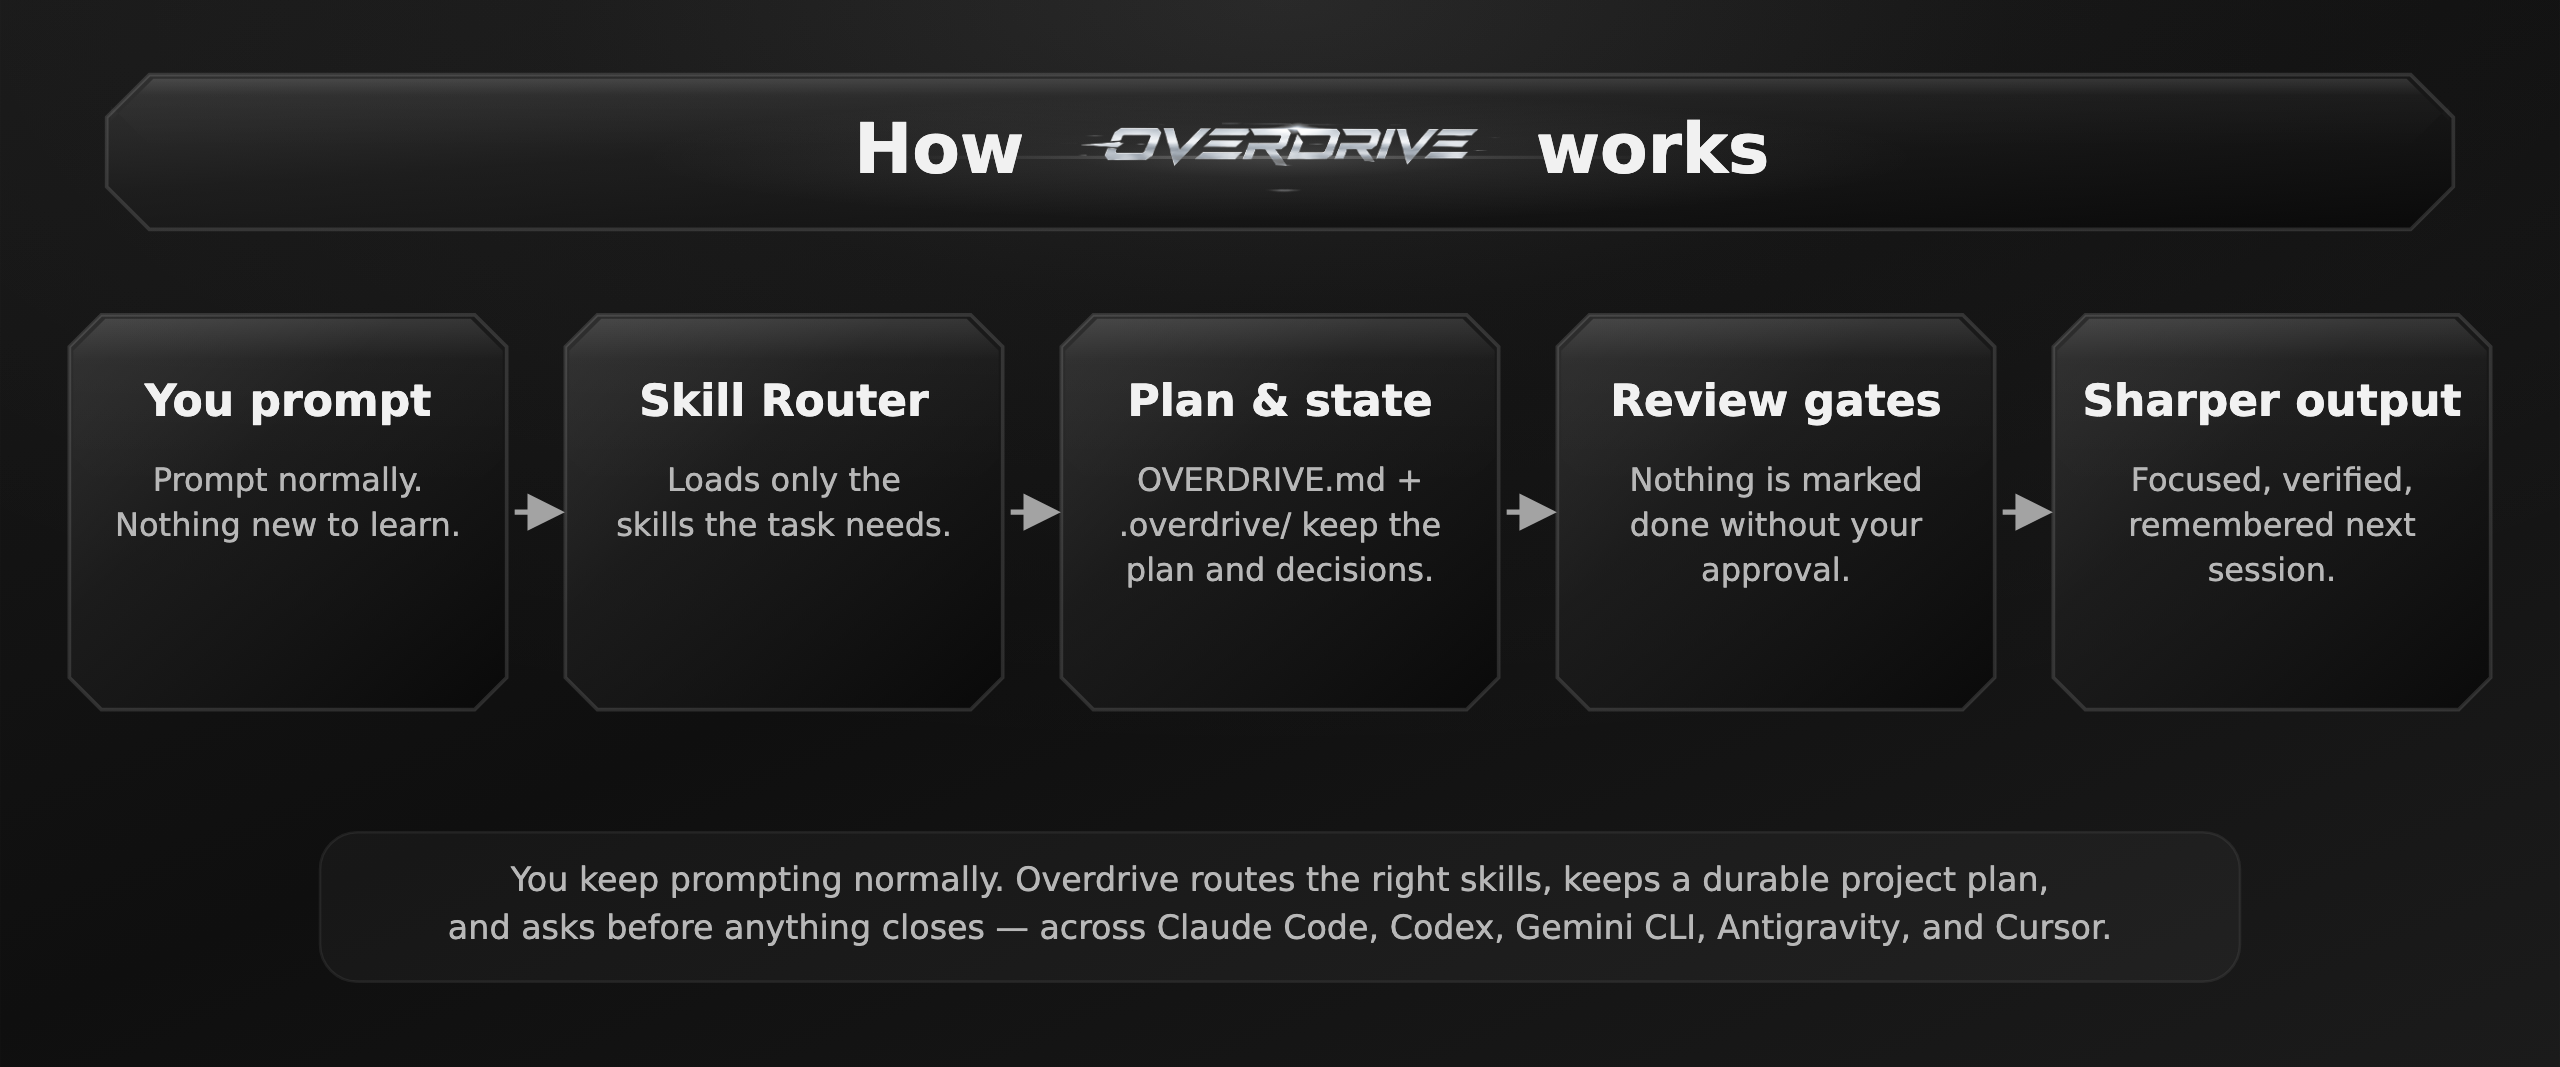
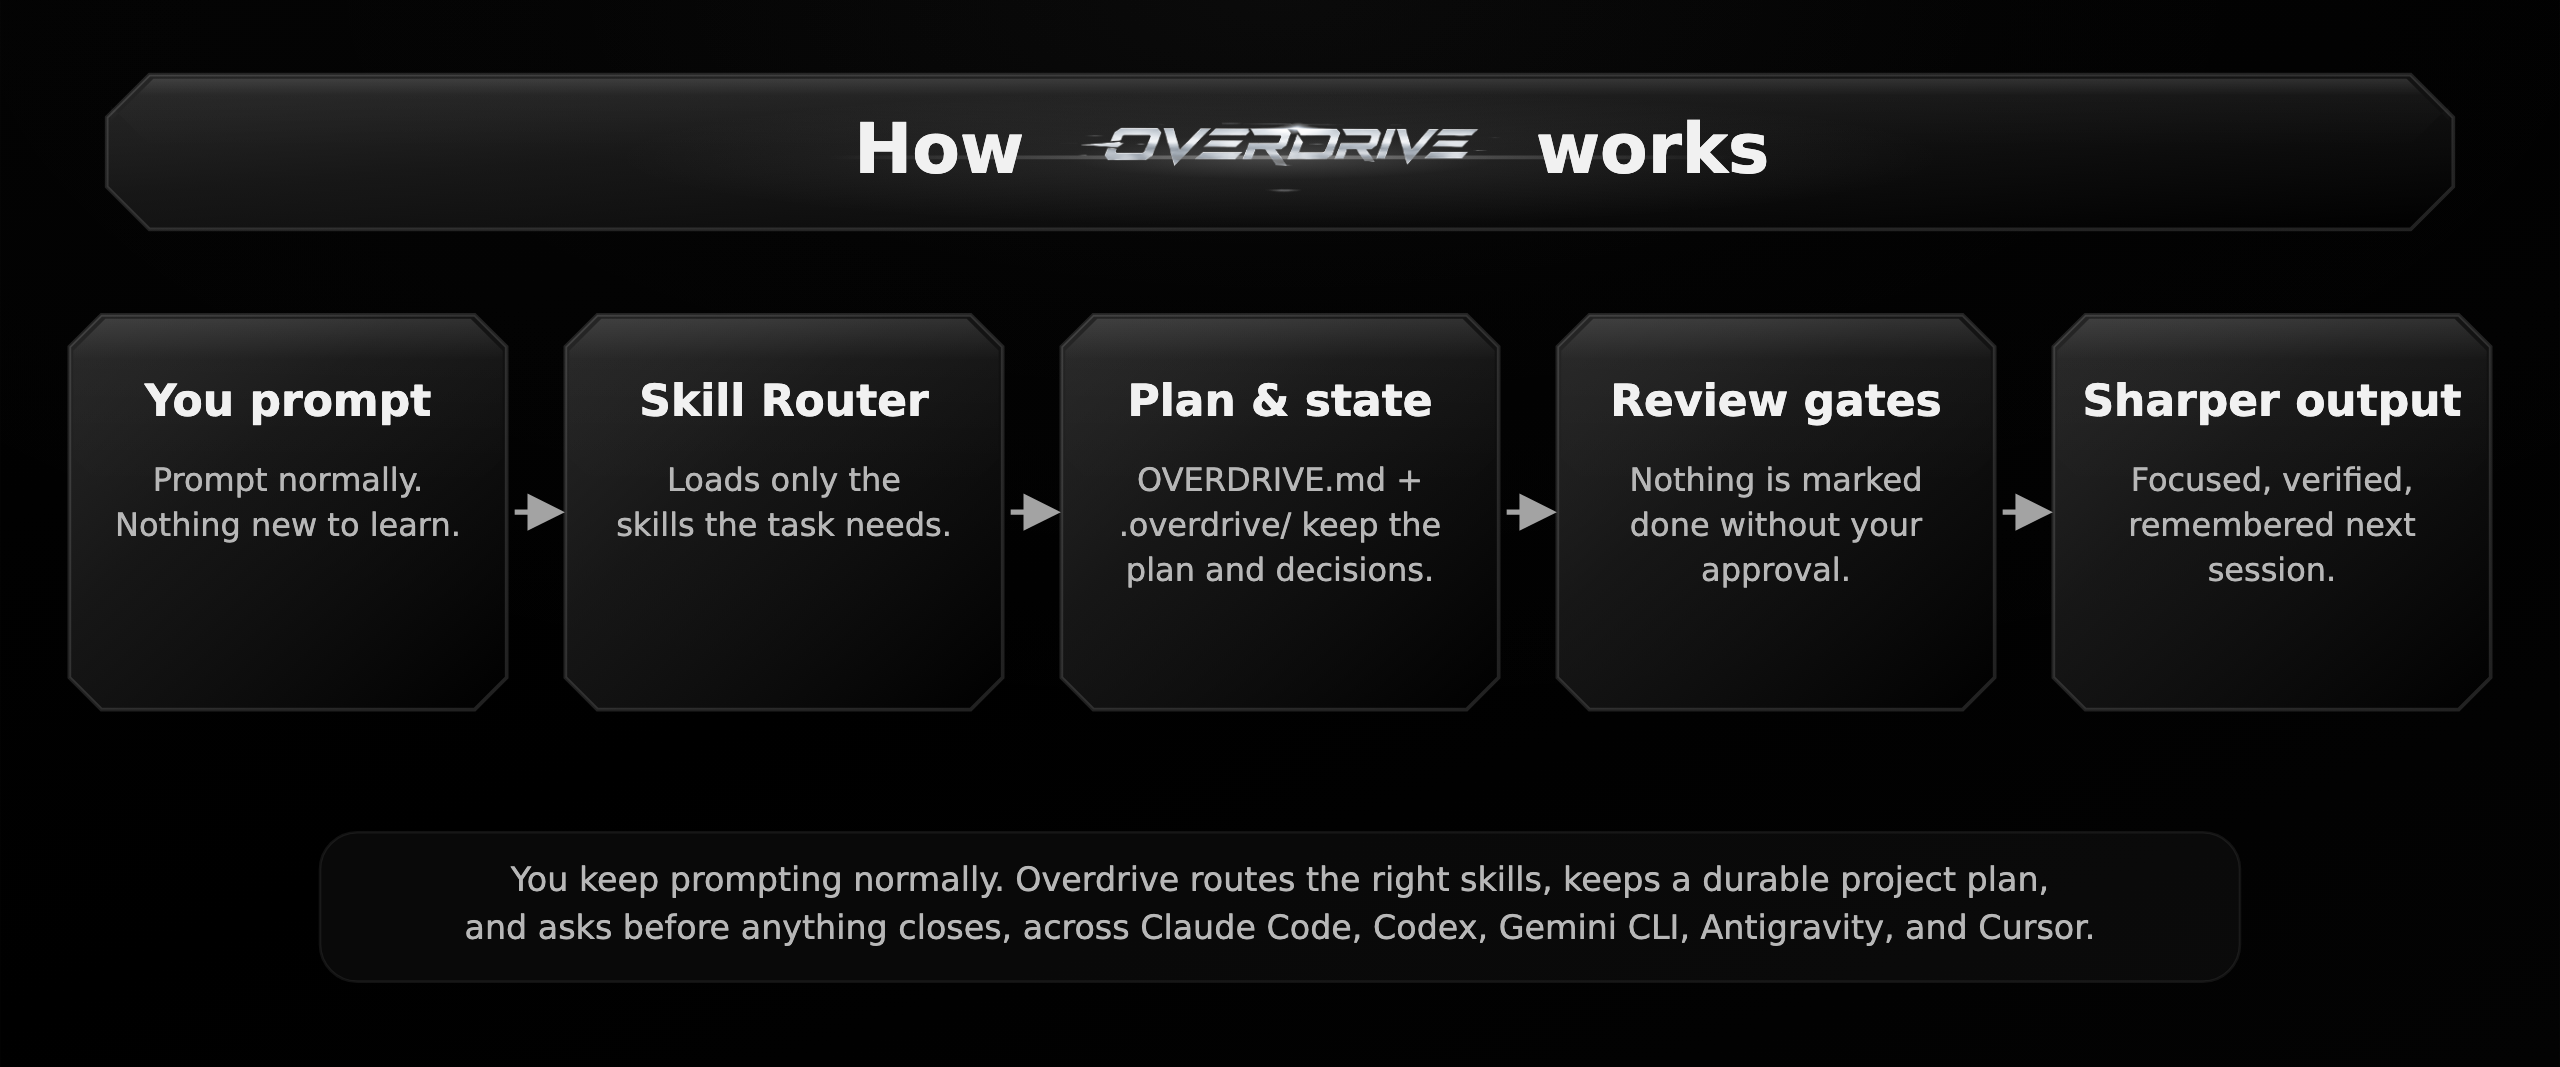
Brand and docs polish: true-black diagrams, PSMS wording, provenance
- Diagrams now match the logo exactly: pure black backgrounds
  (corner pixels rgb 1-3, same as the logo asset), reduced sheen
  overlay, brighter lens-flare core, and no em dashes in diagram text.
- New README tagline and intro bullets follow the pipeline: global
  instructions (Karpathy-based) -> curated skills -> skill router ->
  project state management system. 'Operating layer' wording removed.
- ovd-workflow is consistently named the project state management
  system across README and docs; ovd-plan bullet no longer says v2.
- Added the 'Why leaf?' explanation (flexible plan shapes, leaf = the
  smallest implementable unit) to README and ovd-plan-v2.md.
- Added skills provenance: 22 pinned upstream open-source repos plus
  the 19 skills built specifically for Overdrive, verified against
  manifest.json.
- Added a Documentation section and a docs/README.md index grouped by
  audience; restored uninstall commands; all local links verified.
- Removed em dashes from README/docs prose (verbatim installed-artifact
  blocks and quoted CLI output kept exact).
- Intro quote: Overdrive builds and audits its own upgrades, friend and
  business partner credit for Eugen Bulboaca, new X handle
  @user, GitHub and LinkedIn links; consistency assertion
  updated to the new handle.
- Honest assessment re-checked and re-affirmed; release notes updated
  with credits and PSMS wording.

Changed region(s): [[0.1562, 0.0, 0.6875, 0.0928], [0.1562, 0.8351, 0.8125, 0.8969], [0.0625, 0.0, 0.0938, 0.0309]]

diff --git a/scripts/check-consistency.js b/scripts/check-consistency.js
@@ -250,7 +250,7 @@ check('README links to router evaluation docs', /docs\/evaluation\.md/.test(read
 check('README links to v0.6 scorecard docs', /docs\/scorecard-v0\.6\.md/.test(readme));
 check('README explains ovd-workflow', /ovd-workflow/i.test(readme) && /\.overdrive/.test(readme));
 check('README positions Overdrive as a complete system', /complete,\s*plug-and-play system/i.test(readme) && /not just another skill pack/i.test(readme));
-check('README includes Stefan origin/contact note', /own daily AI coding-agent setup/i.test(readme) && /@editor_stefan/.test(readme) && /buymeacoffee/.test(readme));
+check('README includes Stefan origin/contact note', /own daily AI coding-agent setup/i.test(readme) && /@StefanDumitruX/.test(readme) && /buymeacoffee/.test(readme));
 check('README clarifies managed vs native/plugin layers', /managed skills/i.test(readme) && /native skills, third-party plugin skills, or MCP servers/i.test(readme));
 check('README documents Cursor reserved folder boundary', /~\/\.cursor\/skills-cursor/.test(readme) && /does not touch Cursor's reserved/i.test(readme));
 check('README states no telemetry', /no telemetry/i.test(readme));

diff --git a/README.md b/README.md
@@ -2,7 +2,7 @@
 
 ![Overdrive logo](assets/overdrive%20logo.png)
 
-**The operating layer for AI coding agents — 137 specialist skills, a router that picks them, and a project plan that survives sessions.**
+**Karpathy-based global instructions, 137 curated skills, a router that picks the right ones, and a project state management system that survives sessions. One install for your AI coding agents.**
 
 [![npm](https://img.shields.io/npm/v/overdrive-cli?color=2b3a44&label=npm)](https://www.npmjs.com/package/overdrive-cli)
 [![license](https://img.shields.io/badge/license-Apache--2.0-2b3a44)](LICENSE)
@@ -13,27 +13,27 @@
 
 </div>
 
-> I built Overdrive over the years as my own daily AI coding-agent setup and I'm releasing it completely for free for the community to use. I've built many different websites, web-apps and mobile apps with it across Claude Code, Codex and Antigravity. If you build something with it, tag me on X [@editor_stefan](https://x.com/editor_stefan), connect on [LinkedIn](https://www.linkedin.com/in/radustefandumitru/), send feedback on Reddit at [u/StefanDumitru](https://www.reddit.com/user/StefanDumitru/) or open an issue/PR.
+> I built Overdrive over the years as my own daily AI coding-agent setup and I'm releasing it completely for free for the community to use. I've built many different websites, web-apps and mobile apps with it across Claude Code, Codex and Antigravity, including Overdrive itself: the system plans, builds, and audits its own upgrades, and it has evolved that way from the start. If you build something with it, tag me on X [@StefanDumitruX](https://x.com/StefanDumitruX), connect on [LinkedIn](https://www.linkedin.com/in/radustefandumitru/), find me on [GitHub](https://github.com/radustefandumitru), send feedback on Reddit at [u/StefanDumitru](https://www.reddit.com/user/StefanDumitru/) or open an issue/PR.
 >
-> Special thanks to my business partner [Eugen Bulboaca](https://www.linkedin.com/in/eugenbulboaca/) ([GitHub](https://github.com/BulboacaEugen)), who has massively helped shape Overdrive — including designing the `ovd-workflow` project-context layer.
+> Special thanks to my friend and business partner [Eugen Bulboaca](https://www.linkedin.com/in/eugenbulboaca/) ([GitHub](https://github.com/BulboacaEugen)), who has massively helped shape Overdrive, including designing `ovd-workflow`, the project state management system.
 >
 > I'm just a recent uni grad that likes coding in his spare time. If you want to buy me a coffee, you can do so [here](https://buymeacoffee.com/stefandumitru) :) - Anything is much appreciated!
 >
 > - Stef
 
-**Overdrive** is a complete, plug-and-play system for upgrading AI coding agents with specialist skills, smarter routing, local project memory, and a v2 project-management layer.
+**Overdrive** is a complete, plug-and-play system for upgrading AI coding agents. It layers global instructions built on Karpathy's system prompt, a curated skill catalog, a skill router, and a project state management system on top of the agents you already use.
 
 It works across Claude Code, Codex, Gemini CLI, Antigravity, Cursor, and shared `.agents` roots. The current manifest contains 137 unique skills for web/app development, frontend polish, animation, SEO, product work, research, launch prep, security review, browser validation, prompt improvement, codebase intelligence, and project workflow state.
 
 ![Overdrive flow diagram](assets/[email redacted])
 
-Overdrive is not just another skill pack. It is the operating layer around the skills:
+Overdrive is not just another skill pack. The pieces work as one system:
 
+- **Global instructions**, based on Andrej Karpathy's Claude system prompt and adapted to fit Overdrive, keep agents cautious, objective, docs-aware, and verification-oriented.
 - **Skills** teach agents how to do specific kinds of work.
 - **`skill-router`** chooses the smallest useful skill set for the current request.
-- **`ovd-workflow`** keeps local project memory in `.overdrive/`.
-- **v2 `ovd-plan`** adds a human-readable project plan in `OVERDRIVE.md` so work survives across sessions.
-- **Global instructions** — based on Andrej Karpathy's Claude system prompt, adapted to fit Overdrive — keep agents cautious, objective, docs-aware, and verification-oriented.
+- **`ovd-workflow`** runs the project state management system: project context in `.overdrive/`, from requirements and preferences to decisions and codebase maps.
+- **`ovd-plan`** adds a human-readable project plan in `OVERDRIVE.md` so work survives across sessions.
 - **Installer safety** uses pinned sources, dry-runs, non-destructive conflict handling, and managed markers.
 
 The practical goal is better agent output with less repeated prompting, without loading a giant context dump into every chat.
@@ -120,14 +120,14 @@ The mental model is simple:
 
 ```text
 OVERDRIVE.md        human-readable project tree
-.overdrive/         local project memory, preferences, requirements, decisions, sessions, handoffs
+.overdrive/         project state: preferences, requirements, decisions, sessions, handoffs
 skills/             specialist playbooks
 skill-router        chooses skill guidance at planning or execution time
 ```
 
 A leaf in `OVERDRIVE.md` is meant to be an executable contract: scope, skills, success criteria, dependencies, and verification. Leaves do not auto-complete. They move to `awaiting-review`, then close only after user approval or an equivalent clear signal.
 
-A real plan tree looks like this — plain Markdown you can read, diff, and commit:
+A real plan tree is plain Markdown you can read, diff, and commit:
 
 ```markdown
 ## II. Dashboard [in-progress]
@@ -150,9 +150,13 @@ verify:
 ```
 ```
 
-When you approve a leaf, closure walks **up** the tree: "That closes II.2 — verify, close, or hold?" Each level asks. Nothing is marked done behind your back, at any level. The skill-router runs once per leaf at planning time, so execution starts warm instead of re-routing cold.
+When you approve a leaf, closure walks **up** the tree: "That closes II.2. Verify, close, or hold?" Each level asks. Nothing is marked done behind your back, at any level. The skill-router runs once per leaf at planning time, so execution starts warm instead of re-routing cold.
 
-If you have a v1 `.overdrive/` layout, `/ovd-workflow` detects it and offers a one-time, opt-in migration that archives your originals first. The v2 design is documented in [docs/ovd-plan-v2.md](docs/ovd-plan-v2.md). The `ovd-workflow` project-context layer that anchors it was designed by [Eugen Bulboaca](https://www.linkedin.com/in/eugenbulboaca/) ([GitHub](https://github.com/BulboacaEugen)).
+### Why "leaf"?
+
+Overdrive says "leaf" instead of task, step, phase, or action on purpose. Those words imply a fixed planning model. In Overdrive the plan takes whatever shape the project needs: features, milestones, systems, pages, user flows, bugs, experiments. A leaf is simply the smallest implementable unit at the edge of that tree. "Implement auth" might contain leaves like "forgot password screen", "password storage", and "email confirmation", and the parent above them can be a feature, a phase, a milestone, or anything else. This keeps `ovd-plan` flexible for humans and agents instead of forcing every project into one rigid workflow.
+
+If you have a v1 `.overdrive/` layout, `/ovd-workflow` detects it and offers a one-time, opt-in migration that archives your originals first. The v2 design is documented in [docs/ovd-plan-v2.md](docs/ovd-plan-v2.md). `ovd-workflow`, the project state management system that anchors it, was designed by [Eugen Bulboaca](https://www.linkedin.com/in/eugenbulboaca/) ([GitHub](https://github.com/BulboacaEugen)).
 
 ## Common Workflows
 
@@ -202,7 +206,7 @@ Overdrive has four main runtime layers:
 |---|---|
 | Managed skills | Installs curated `SKILL.md` folders into selected agent roots. Each managed skill has an `.overdrive.json` marker. |
 | Skill router | Picks relevant skills in stable order. Complex work can use more than three skills when justified, preferably in phases. |
-| ovd-workflow + ovd-plan | Stores `.overdrive/` project memory and `OVERDRIVE.md` project structure. Includes knowledge vault, route traces, preferences, requirements, and handoffs. |
+| ovd-workflow + ovd-plan | The project state management system: `.overdrive/` project context plus the `OVERDRIVE.md` plan. Includes knowledge vault, route traces, preferences, requirements, and handoffs. |
 | Global guide | Keeps agents cautious, objective, surgical, docs-aware, context-budget-aware, and verification-oriented. Based on Andrej Karpathy's Claude system prompt, adapted to fit Overdrive. |
 
 ![Overdrive system diagram](assets/[email redacted])
@@ -227,6 +231,18 @@ Skills answer **how should the agent do this kind of task?**
 | Media and video | `claude-video`, `media-download`, Remotion guidance |
 
 The skill-readiness breakdown is in [docs/skill-readiness.md](docs/skill-readiness.md). The router evaluation protocol is in [docs/evaluation.md](docs/evaluation.md), with the v0.6 scorecard template in [docs/scorecard-v0.6.md](docs/scorecard-v0.6.md). Route-frequency analysis uses `npm run analyze:routes` and writes [docs/catalog-health.md](docs/catalog-health.md).
+
+### Where The Skills Come From
+
+Every third-party skill is imported directly from its official open-source repository and pinned to a verified commit. Upstream authors keep their licenses and credit: the full source map lives in [docs/VERIFIED_SOURCES.md](docs/VERIFIED_SOURCES.md) and [THIRD_PARTY_NOTICES.md](THIRD_PARTY_NOTICES.md), with per-skill provenance in [docs/SKILLS_SUMMARY.md](docs/SKILLS_SUMMARY.md).
+
+The current manifest pulls from 22 pinned upstream repositories. On top of those, 19 skills were built specifically for Overdrive:
+
+- Core system: `skill-router`, `clarify-and-plan`, `planning-first`, `what-should-i-consider`
+- Workflow, quality, and safety: `security-review`, `pre-launch-checklist`, `convert-to-markdown`, `reddit-research`
+- Frontend, design, and motion: `fluid-animations`, `emil-animation-polish`, `design-extract`, `liquid-glass-web`, `pretext`
+- Media: `media-download`
+- Premium website stack: `jack-premium-site-system`, `jack-website-intelligence`, `jack-scroll-asset-prompts`, `jack-scroll-3d-sites`, `jack-seo-launch-audit`
 
 ## Install Modes
 
@@ -336,7 +352,7 @@ overdrive/
 
 ## Advanced: Exact Installed Instructions
 
-Overdrive installs a managed global operating guide and the `skill-router` skill. The guide is based on Andrej Karpathy's Claude system prompt, adapted to fit Overdrive — it is the behavioral core of the system, the layer every request passes through. Both are included here so users can inspect the actual behavior before installing.
+Overdrive installs a managed global operating guide and the `skill-router` skill. The guide is based on Andrej Karpathy's Claude system prompt, adapted to fit Overdrive, and it is the behavioral core of the system: the layer every request passes through. Both are included here so users can inspect the actual behavior before installing.
 
 <details>
 <summary>Installed global operating guide</summary>
@@ -622,13 +638,25 @@ When `confidence: low` or the annotation is missing, perform full routing per th
 
 </details>
 
+## Documentation
+
+The [docs/](docs/) folder holds the full documentation, indexed in [docs/README.md](docs/README.md). Good starting points:
+
+- [docs/SKILLS_SUMMARY.md](docs/SKILLS_SUMMARY.md): every skill, where it comes from, and who made it.
+- [docs/VERIFIED_SOURCES.md](docs/VERIFIED_SOURCES.md): the pinned upstream sources used by default installs.
+- [THIRD_PARTY_NOTICES.md](THIRD_PARTY_NOTICES.md): licenses and attribution for imported work.
+- [docs/ovd-plan-v2.md](docs/ovd-plan-v2.md): the v2 design, from the four commands to closure semantics.
+- [docs/ovd-workflow.md](docs/ovd-workflow.md): the project state management system on disk.
+- [docs/evaluation.md](docs/evaluation.md): what the router benchmark measures, and what it does not.
+- [docs/PUBLISHING.md](docs/PUBLISHING.md): how releases are verified and published.
+
 ## Credits
 
 Overdrive is built from original local skills, safety transforms, installer/runtime code, and a curated set of public third-party skills. See [THIRD_PARTY_NOTICES.md](THIRD_PARTY_NOTICES.md) and [docs/VERIFIED_SOURCES.md](docs/VERIFIED_SOURCES.md) for the full source map.
 
 Key credits include:
 
-- `ovd-workflow` project-context design: [Eugen Bulboaca](https://www.linkedin.com/in/eugenbulboaca/) ([GitHub](https://github.com/BulboacaEugen)).
+- `ovd-workflow` project state management system design: [Eugen Bulboaca](https://www.linkedin.com/in/eugenbulboaca/) ([GitHub](https://github.com/BulboacaEugen)).
 - Global operating guide: based on Andrej Karpathy's Claude system prompt, via the Karpathy-inspired coding-agent guidance in [multica-ai/andrej-karpathy-skills](https://github.com/multica-ai/andrej-karpathy-skills), adapted to fit Overdrive.
 - Prompt-line principles: Boris Cherny / Anthropic, shared by [@AnatoliKopadze](https://x.com/AnatoliKopadze/status/2054568935274549597) and [this follow-up](https://x.com/AnatoliKopadze/status/2056362875195686927).
 - Product-design reasoning: [Jamie Mill's Layers skills](https://github.com/jamiemill/layers-skills) and [layers.jamiemill.com](https://layers.jamiemill.com).
@@ -651,15 +679,15 @@ Key credits include:
 
 ## Claude Fable 5 Honest Assessment
 
-I audited this codebase before release — installer, state engine, tests, packaging, licensing — reran its full test suite, reproduced its safety claims against real scenarios, and fixed the bugs I found. So this is an informed opinion, but it is also a reviewed party's opinion: I contributed fixes to this release, and you should weigh that the way you'd weigh any code review written by someone who has skin in the codebase.
+I audited this codebase before release: installer, state engine, tests, packaging, licensing. I reran its full test suite, reproduced its safety claims against real scenarios, and fixed the bugs I found. So this is an informed opinion, but it is also a reviewed party's opinion: I contributed fixes to this release, and you should weigh that the way you'd weigh any code review written by someone who has skin in the codebase.
 
-What genuinely impressed me: the safety engineering is real, not marketing. Unmanaged files are actually preserved (I tested the edge cases, including hostile ones). Uninstall actually removes only what Overdrive added. Sources are actually pinned to commit SHAs with attribution that names what is *not* redistributed — a level of licensing care most hobby projects skip. The consistency checker holds the docs to the code with over a thousand assertions, which is why this README can make specific claims without drifting. And v2's `awaiting-review` gate addresses the single most common failure of autonomous agents — declaring victory on work you haven't accepted — with a mechanism, not a vibe.
+What genuinely impressed me: the safety engineering is real, not marketing. Unmanaged files are actually preserved (I tested the edge cases, including hostile ones). Uninstall actually removes only what Overdrive added. Sources are actually pinned to commit SHAs, with attribution that names what is *not* redistributed, which is a level of licensing care most hobby projects skip. The consistency checker holds the docs to the code with over a thousand assertions, which is why this README can make specific claims without drifting. And v2's `awaiting-review` gate addresses the single most common failure of autonomous agents, declaring victory on work you haven't accepted, with a mechanism instead of a vibe.
 
-What I'd be skeptical of, in your position: there is no measured evidence that Overdrive improves final output quality. The router benchmark measures routing quality — whether the right skills load — not whether shipped products get better; nobody has run that experiment yet. The v2 planning loop has a real ceremony cost: on one-shot tasks it is overhead, and it only pays for itself on work that spans sessions. 137 skills is a curation, which means opinions — some will not be your opinions. And a system this instruction-heavy depends on the agent actually following instructions; stronger models follow them better, so your results will vary with your model. One more data point in that spirit: on release day, CI on a bare runner caught two environment assumptions the audited test suite had missed on developer machines — both were test/CI infrastructure rather than product code, both were fixed forward in public history, and I'd rather tell you that than pretend the audit made this repository infallible.
+What I'd be skeptical of, in your position: there is no measured evidence that Overdrive improves final output quality. The router benchmark measures routing quality, meaning whether the right skills load, not whether shipped products get better; nobody has run that experiment yet. The v2 planning loop has a real ceremony cost: on one-shot tasks it is overhead, and it only pays for itself on work that spans sessions. 137 skills is a curation, which means opinions, and some will not be your opinions. A system this instruction-heavy also depends on the agent actually following instructions; stronger models follow them better, so your results will vary with your model. One more data point in that spirit: on release day, CI on a bare runner caught two environment assumptions the audited test suite had missed on developer machines. Both were test/CI infrastructure rather than product code, both were fixed forward in public history, and I'd rather tell you that than pretend the audit made this repository infallible.
 
-My advice: install globally, ignore the plan layer at first, and just let the router work for a week — that alone is most of the value for most people. Reach for `/ovd-plan` the first time a project outgrows one session. If it doesn't earn its ceremony on your real work, drop that layer and keep the skills; the design decision I most respect here is that the layers are separable.
+My advice: install globally, ignore the plan layer at first, and just let the router work for a week. That alone is most of the value for most people. Reach for `/ovd-plan` the first time a project outgrows one session. If it doesn't earn its ceremony on your real work, drop that layer and keep the skills; the design decision I most respect here is that the layers are separable.
 
-— Claude Fable 5 (Anthropic). Written after a full pre-release audit of this repository, then re-checked and re-affirmed at higher reasoning effort after executing the v2.0.0 release end to end.
+- Claude Fable 5 (Anthropic). Written after a full pre-release audit of this repository, then re-checked and re-affirmed at higher reasoning effort after executing the v2.0.0 release end to end.
 
 ## Contributing
 

diff --git a/docs/ovd-plan-v2.md b/docs/ovd-plan-v2.md
@@ -10,8 +10,8 @@ Overdrive v1 is the **execution layer** for AI coding agents:
 
 - 137 specialist skills covering frontend design, animation, security, SEO, research, launch, prompt engineering, codebase intelligence, and more.
 - `skill-router` chooses the right skills per request without loading the whole catalog.
-- Global operating guide — based on Andrej Karpathy's Claude system prompt, adapted to fit Overdrive — instructs agents to plan, verify, watch context budget, use current docs.
-- `ovd-workflow` persists lightweight project state (`.overdrive/project.md`, `state.md`, `decisions.md`, etc.) so agents remember active work, decisions, and constraints.
+- Global operating guide, based on Andrej Karpathy's Claude system prompt and adapted to fit Overdrive, instructs agents to plan, verify, watch context budget, use current docs.
+- `ovd-workflow`, the project state management system, persists project state (`.overdrive/project.md`, `state.md`, `decisions.md`, etc.) so agents remember active work, decisions, and constraints.
 - Installer keeps sources pinned and updates safe.
 
 This is excellent at *doing* the work in front of the agent. What it doesn't do: **structure a project beyond the current request**. There's no milestone, no phase, no contract, no recursive closure, no handoff that survives a context clear with intent intact. Each session is mostly request-scoped; project memory exists but is unstructured prose.
@@ -20,7 +20,7 @@ The closest comparable pattern is a structured project/milestone/phase/task hier
 
 ## What v2 adds (in one paragraph)
 
-Four user-facing commands, each a state machine with many internal states. A recursive tree at the project root (`OVERDRIVE.md`) where every leaf is a self-contained **contract** — scope, skills, success criteria, dependencies, verification method, optional sketches. Planning consults the skill-router once per leaf so execution never re-routes cold. Leaves never auto-complete — explicit user approval (or equivalent signal) closes a leaf. Closure walks recursively up the tree, asking the user at every level. Context persistence is invisible: a lightweight save before context clear; an orient-and-continue on resume. The user types four commands; the agent absorbs the complexity.
+Four user-facing commands, each a state machine with many internal states. A recursive tree at the project root (`OVERDRIVE.md`) where every leaf is a self-contained **contract**: scope, skills, success criteria, dependencies, verification method, optional sketches. Planning consults the skill-router once per leaf so execution never re-routes cold. Leaves never auto-complete; explicit user approval (or equivalent signal) closes a leaf. Closure walks recursively up the tree, asking the user at every level. Context persistence is invisible: a lightweight save before context clear; an orient-and-continue on resume. The user types four commands; the agent absorbs the complexity.
 
 ## The four commands
 
@@ -123,16 +123,18 @@ inserted_by: user
 
 Tree depth is unbounded. IDs are position-derived using a hierarchical short notation: Roman → Arabic → lowercase letter → lowercase Roman → uppercase letter (`I` → `II.3` → `II.3.b` → `II.3.b.iv` → `II.3.b.iv.A`). Status markers in `[brackets]` after the title; `← ACTIVE` flags the current execution position. Structured fields live in a fenced `yaml ovd-plan` block per node, with deterministic field ordering for diff-friendly output.
 
+A note on naming: a **leaf** is the smallest meaningful modular unit of work in the current plan, the bottom-level implementable node. Overdrive avoids words like task, step, phase, or action because they imply a fixed hierarchy. The structure above a leaf is yours to shape: features, milestones, systems, pages, user flows, bugs, experiments. v2 is a flexible project state management system, not a rigid task manager.
+
 ## The new statuses
 
 Leaves move through six possible statuses:
 
-- **pending** — not yet started (rendered as `[]`).
-- **in-progress** — actively being worked on.
-- **awaiting-review** — implementation complete + auto-verify passed, but no user approval yet. The leaf is held here until you reply `approved` (or equivalent: `ship`, `done`, `next`) or describe changes to iterate.
-- **done** — user has explicitly approved.
-- **blocked** — can't proceed (missing input, external dependency, planned approach fails).
-- **skipped** — user opted out.
+- **pending**: not yet started (rendered as `[]`).
+- **in-progress**: actively being worked on.
+- **awaiting-review**: implementation complete + auto-verify passed, but no user approval yet. The leaf is held here until you reply `approved` (or equivalent: `ship`, `done`, `next`) or describe changes to iterate.
+- **done**: user has explicitly approved.
+- **blocked**: can't proceed (missing input, external dependency, planned approach fails).
+- **skipped**: user opted out.
 
 The `awaiting-review` state is the operational heart of v2. Iteration is the default; auto-completion is never assumed. The agent works autonomously through implementation + verification, then pauses for explicit user confirmation. This eliminates the "the agent thinks it's done but the user hates the result" failure mode that plagues fast-autonomous setups.
 
@@ -148,7 +150,7 @@ Each level requires explicit approval. The same closure pattern applies to every
 
 ## The skill-router becomes a planning-time consultant
 
-In v1, every non-trivial request consults `skill-router` cold — the 21KB `SKILL.md` is loaded and the agent uses it to pick the right skills per task. In v2, the consultation happens **once per leaf during planning**. The planner asks the router for the prior skill set, the agent confirms confidence (high/medium/low), and the result writes into the leaf's YAML annotation as a `skills:` list.
+In v1, every non-trivial request consults `skill-router` cold: the 21KB `SKILL.md` is loaded and the agent uses it to pick the right skills per task. In v2, the consultation happens **once per leaf during planning**. The planner asks the router for the prior skill set, the agent confirms confidence (high/medium/low), and the result writes into the leaf's YAML annotation as a `skills:` list.
 
 At execution time:
 - `confidence: high` → no router consultation. Agent loads the named skills and executes.
@@ -178,7 +180,7 @@ If you have an existing `.overdrive/` layout from v1 (`project.md`, `state.md`, 
 
 Migration is **one-time and opt-in**. Nothing is silently rewritten. The migration map (which old file maps where in the new structure, what gets archived, what gets discarded with archive backup) is documented in `docs/superpowers/specs/2026-06-08-ovd-plan-implementation-plan.md` §5A.
 
-Your existing `/ovd-status`, `/ovd-doctor`, `/ovd-checkpoint`, `/ovd-resync`, `/ovd-knowledge` slash commands continue to resolve in v2 — they delegate to the new handlers with a one-line deprecation note pointing at the replacement. Muscle memory doesn't break.
+Your existing `/ovd-status`, `/ovd-doctor`, `/ovd-checkpoint`, `/ovd-resync`, `/ovd-knowledge` slash commands continue to resolve in v2; they delegate to the new handlers with a one-line deprecation note pointing at the replacement. Muscle memory doesn't break.
 
 ## What's untouched
 
@@ -207,12 +209,12 @@ Each phase ends with a coherent commit; nothing ships piecemeal.
 
 For the full design and discussion history:
 
-- [`2026-06-06-ovd-plan-design.md`](superpowers/specs/2026-06-06-ovd-plan-design.md) — original decisions and ambiguities record
-- [`2026-06-06-ovd-plan-handoff.md`](superpowers/specs/2026-06-06-ovd-plan-handoff.md) — first detailed handoff doc
-- [`2026-06-07-ovd-plan-pipeline-architecture.md`](superpowers/specs/2026-06-07-ovd-plan-pipeline-architecture.md) — first converged architecture
-- [`2026-06-08-ovd-plan-pipeline-architecture-r2.md`](superpowers/specs/2026-06-08-ovd-plan-pipeline-architecture-r2.md) — second revision
-- **[`2026-06-08-ovd-plan-pipeline-architecture-r3.md`](superpowers/specs/2026-06-08-ovd-plan-pipeline-architecture-r3.md)** — current converged spec (the canonical reference)
-- [`2026-06-08-ovd-plan-implementation-plan.md`](superpowers/specs/2026-06-08-ovd-plan-implementation-plan.md) — phased implementation plan with running session log
+- [`2026-06-06-ovd-plan-design.md`](superpowers/specs/2026-06-06-ovd-plan-design.md): original decisions and ambiguities record
+- [`2026-06-06-ovd-plan-handoff.md`](superpowers/specs/2026-06-06-ovd-plan-handoff.md): first detailed handoff doc
+- [`2026-06-07-ovd-plan-pipeline-architecture.md`](superpowers/specs/2026-06-07-ovd-plan-pipeline-architecture.md): first converged architecture
+- [`2026-06-08-ovd-plan-pipeline-architecture-r2.md`](superpowers/specs/2026-06-08-ovd-plan-pipeline-architecture-r2.md): second revision
+- **[`2026-06-08-ovd-plan-pipeline-architecture-r3.md`](superpowers/specs/2026-06-08-ovd-plan-pipeline-architecture-r3.md)**: current converged spec (the canonical reference)
+- [`2026-06-08-ovd-plan-implementation-plan.md`](superpowers/specs/2026-06-08-ovd-plan-implementation-plan.md): phased implementation plan with running session log
 
 For the comprehensive context-handoff design (preserves conversation nuance across context clears), see [`docs/superpowers/specs/2026-06-06-ovd-plan-handoff.md`](superpowers/specs/2026-06-06-ovd-plan-handoff.md).
 

diff --git a/docs/README.md b/docs/README.md
@@ -1,0 +1,35 @@
+# Overdrive Documentation
+
+Start with the [main README](../README.md) for install and the mental model. This folder holds everything deeper, grouped by what you are trying to do.
+
+## Understand the system
+
+- [ovd-plan-v2.md](ovd-plan-v2.md): the v2 design. The four commands, the `OVERDRIVE.md` plan tree, leaf statuses, review gates, and closure semantics.
+- [ovd-workflow.md](ovd-workflow.md): the project state management system on disk. What lives in `.overdrive/` and how agents use it.
+- [context-runtime-matrix.md](context-runtime-matrix.md): how each supported agent runtime handles context windows, compaction, and memory.
+- [prompt-caching.md](prompt-caching.md): why Overdrive keeps stable context up front, and what prompt caching means for agent setups.
+
+## Skills: what is included and where it comes from
+
+- [SKILLS_TLDR.md](SKILLS_TLDR.md): the quick map. Which skill to reach for by situation.
+- [SKILLS_SUMMARY.md](SKILLS_SUMMARY.md): the deep reference. Every skill, its source, its author, and what was adapted.
+- [VERIFIED_SOURCES.md](VERIFIED_SOURCES.md): the pinned upstream refs and package versions used by default installs.
+- [skill-readiness.md](skill-readiness.md): which skills work out of the box and which need accounts, credentials, or extra tools.
+- [AGENTS_OPENAI_YAML.md](AGENTS_OPENAI_YAML.md): the `agents/openai.yaml` metadata some skills carry for OpenAI/Codex-style runtimes.
+- [MCP_AND_CONNECTORS.md](MCP_AND_CONNECTORS.md): the Context7 recommendation and how Overdrive treats MCP servers and connectors.
+
+## Quality, evaluation, and honesty about limits
+
+- [evaluation.md](evaluation.md): what the router benchmark measures (routing quality), what it does not (output quality), and the manual scoring protocol.
+- [scorecard-v0.6.md](scorecard-v0.6.md): the blind-run scorecard template. Intentionally empty until real runs are collected.
+- [catalog-health.md](catalog-health.md): generated route-frequency report. Refresh with `npm run analyze:routes`.
+- [source-fidelity-report.md](source-fidelity-report.md): generated upstream-fidelity report. Refresh with `npm run source:fidelity`.
+
+## Releases and maintenance
+
+- [release-notes-v2.0.0.md](release-notes-v2.0.0.md): what shipped in v2.0.0, including audit fixes and credits.
+- [PUBLISHING.md](PUBLISHING.md): the release checklist. How versions are verified, packaged, and published.
+
+## Design records
+
+- [superpowers/](superpowers/): the raw v2 design history. Specs, audits, plans, and known issues, kept as a record of how decisions were made. Read [ovd-plan-v2.md](ovd-plan-v2.md) first; it is the distilled version.

diff --git a/docs/release-notes-v2.0.0.md b/docs/release-notes-v2.0.0.md
@@ -1,6 +1,6 @@
 # Overdrive v2.0.0
 
-Overdrive v2 adds a project-management/state layer on top of the existing skill installer and router.
+Overdrive v2 adds a project state management system on top of the existing skill installer and router.
 
 ## Highlights
 
@@ -28,7 +28,7 @@ An independent pre-release audit (Claude Fable 5) reviewed installer safety, v2 
 
 ## Credits
 
-- The `ovd-workflow` project-context layer was designed by [Eugen Bulboaca](https://www.linkedin.com/in/eugenbulboaca/) ([GitHub](https://github.com/BulboacaEugen)).
+- `ovd-workflow`, the project state management system, was designed by [Eugen Bulboaca](https://www.linkedin.com/in/eugenbulboaca/) ([GitHub](https://github.com/BulboacaEugen)).
 - The installed global operating guide is based on Andrej Karpathy's Claude system prompt, adapted to fit Overdrive, via [multica-ai/andrej-karpathy-skills](https://github.com/multica-ai/andrej-karpathy-skills).
 
 ## Safety Notes

diff --git a/docs/ovd-workflow.md b/docs/ovd-workflow.md
@@ -1,6 +1,6 @@
 # ovd-workflow
 
-ovd-workflow is Overdrive's lightweight project-state layer.
+ovd-workflow is Overdrive's project state management system, designed by [Eugen Bulboaca](https://github.com/BulboacaEugen).
 
 Skills teach agents how to do specialist work. ovd-workflow helps them remember what is happening in the current project without loading a giant pile of context.
 

diff --git a/docs/skill-readiness.md b/docs/skill-readiness.md
@@ -1,6 +1,6 @@
 # Skill Readiness Audit
 
-Overdrive is plug-and-play for installation: the installer can place skills and global instructions without account setup. As of v2, it also includes the `ovd-plan` project-management layer, documents native context-window behavior by runtime, and attempts safe, non-privileged setup for selected optional helpers when relevant skills are installed. Some workflows still need user-owned accounts, credentials, app permissions, or manual setup before they can execute fully.
+Overdrive is plug-and-play for installation: the installer can place skills and global instructions without account setup. As of v2, it also includes the `ovd-plan` project state management system, documents native context-window behavior by runtime, and attempts safe, non-privileged setup for selected optional helpers when relevant skills are installed. Some workflows still need user-owned accounts, credentials, app permissions, or manual setup before they can execute fully.
 
 ## Default Install Summary
 